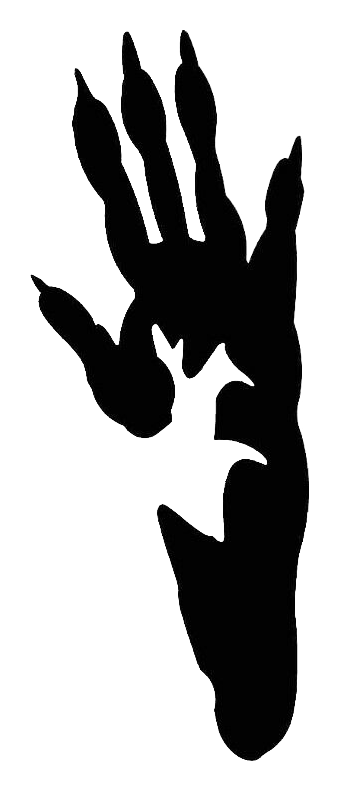
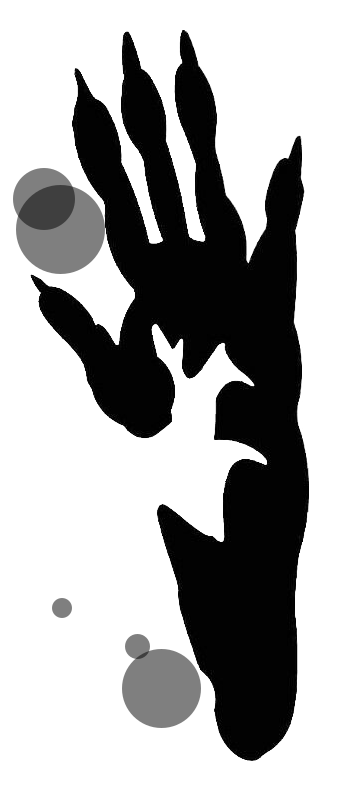
Fixed tail, NaN value in get position, added splatter to pawprints

Changed region(s): [[0.0295, 0.2119, 0.3245, 0.3632], [0.354, 0.7869, 0.59, 0.9382], [0.1475, 0.7566, 0.2065, 0.7869]]

diff --git a/src/rat.py b/src/rat.py
@@ -1,5 +1,5 @@
 import math
-from random import randint
+from random import randint, choice
 from math import cos, sin, radians
 
 import numpy as np
@@ -35,11 +35,15 @@ class Rat:
             [self.frame_size[0] // 2, self.frame_size[1]],
             [self.frame_size[0], self.frame_size[1] // 2],
             [self.frame_size[0], 0], [0, self.frame_size[1]],
-            [self.frame_size[0] // 2, 0], [0, self.frame_size[1] // 2]
+            [self.frame_size[0] // 2, 0], [0, self.frame_size[1] // 2],
+            [0, self.frame_size[1] // 4], [0, self.frame_size[1] // 4 * 3],
+            [self.frame_size[0], self.frame_size[1] // 4], [self.frame_size[0], self.frame_size[1] // 4 * 3],
+            [self.frame_size[0] // 4, 0], [self.frame_size[0] // 4 * 3, 0],
+            [self.frame_size[0] // 4, self.frame_size[1]], [self.frame_size[0] // 4 * 3, self.frame_size[1]],
         ]
 
         distances = [math.dist([self.x, self.y], corner) for corner in corners]
-        max_distance = max(distances)
+        max_distance = choice(sorted(distances)[:4])
         max_distance_id = distances.index(max_distance)
         self.direction = corners[max_distance_id]
         self.direction_timer = randint(2, 4)  # 2-10 rat steps until change of direction
@@ -87,7 +91,8 @@ class Rat:
     def get_body_positions(self):
         horizontal_vec = self.get_horizontal_vec()
         angle = self.get_rotation_angle(horizontal_vec)
-
+        if math.isnan(angle):
+            angle = 180
         if self.direction[1] > self.y:
             angle = 360 - angle
             
@@ -109,6 +114,7 @@ class Rat:
 
     @staticmethod
     def get_angle_between_vectors(vec1, vec2):
+
         unit_vector_1 = vec1 / np.linalg.norm(vec1)
         unit_vector_2 = vec2 / np.linalg.norm(vec2)
         dot_product = np.dot(unit_vector_1, unit_vector_2)

diff --git a/src/visual_rat.py b/src/visual_rat.py
@@ -81,7 +81,9 @@ class VisualRat:
 
         # blobs
         blob_prob = randint(0, 100)
-        if blob_prob > 30 or 'tail' in img_path:
+        if 'tail' in img_path:
+            image = self.get_mask(image, 'tailblob', 4, 'png')
+        elif blob_prob > 30:
             image = self.get_mask(image, 'blob', 5, 'png')
 
         # rotate
@@ -96,7 +98,6 @@ class VisualRat:
 
         angle = randint(int(angle) - 15, int(angle) + 15)
         image = image.rotate(angle, expand=True, fillcolor=(255, 255, 255, 0))
-
         # color and transparency
         color = self.pick_color()
         transparency = self.rat.get_color_amount(color)

diff --git a/webapp.py b/webapp.py
@@ -8,12 +8,11 @@ from src.canvas import Canvas
 
 app = Flask(__name__)
 app.config.from_object(Config)
-save_path = os.path.join('static', 'ref1.png')
 CSRFProtect(app)
 
 
 steps_counter = 0
-canvas = Canvas(1000, 800)
+canvas = Canvas(1000, 600)
 
 
 def get_img_string():
